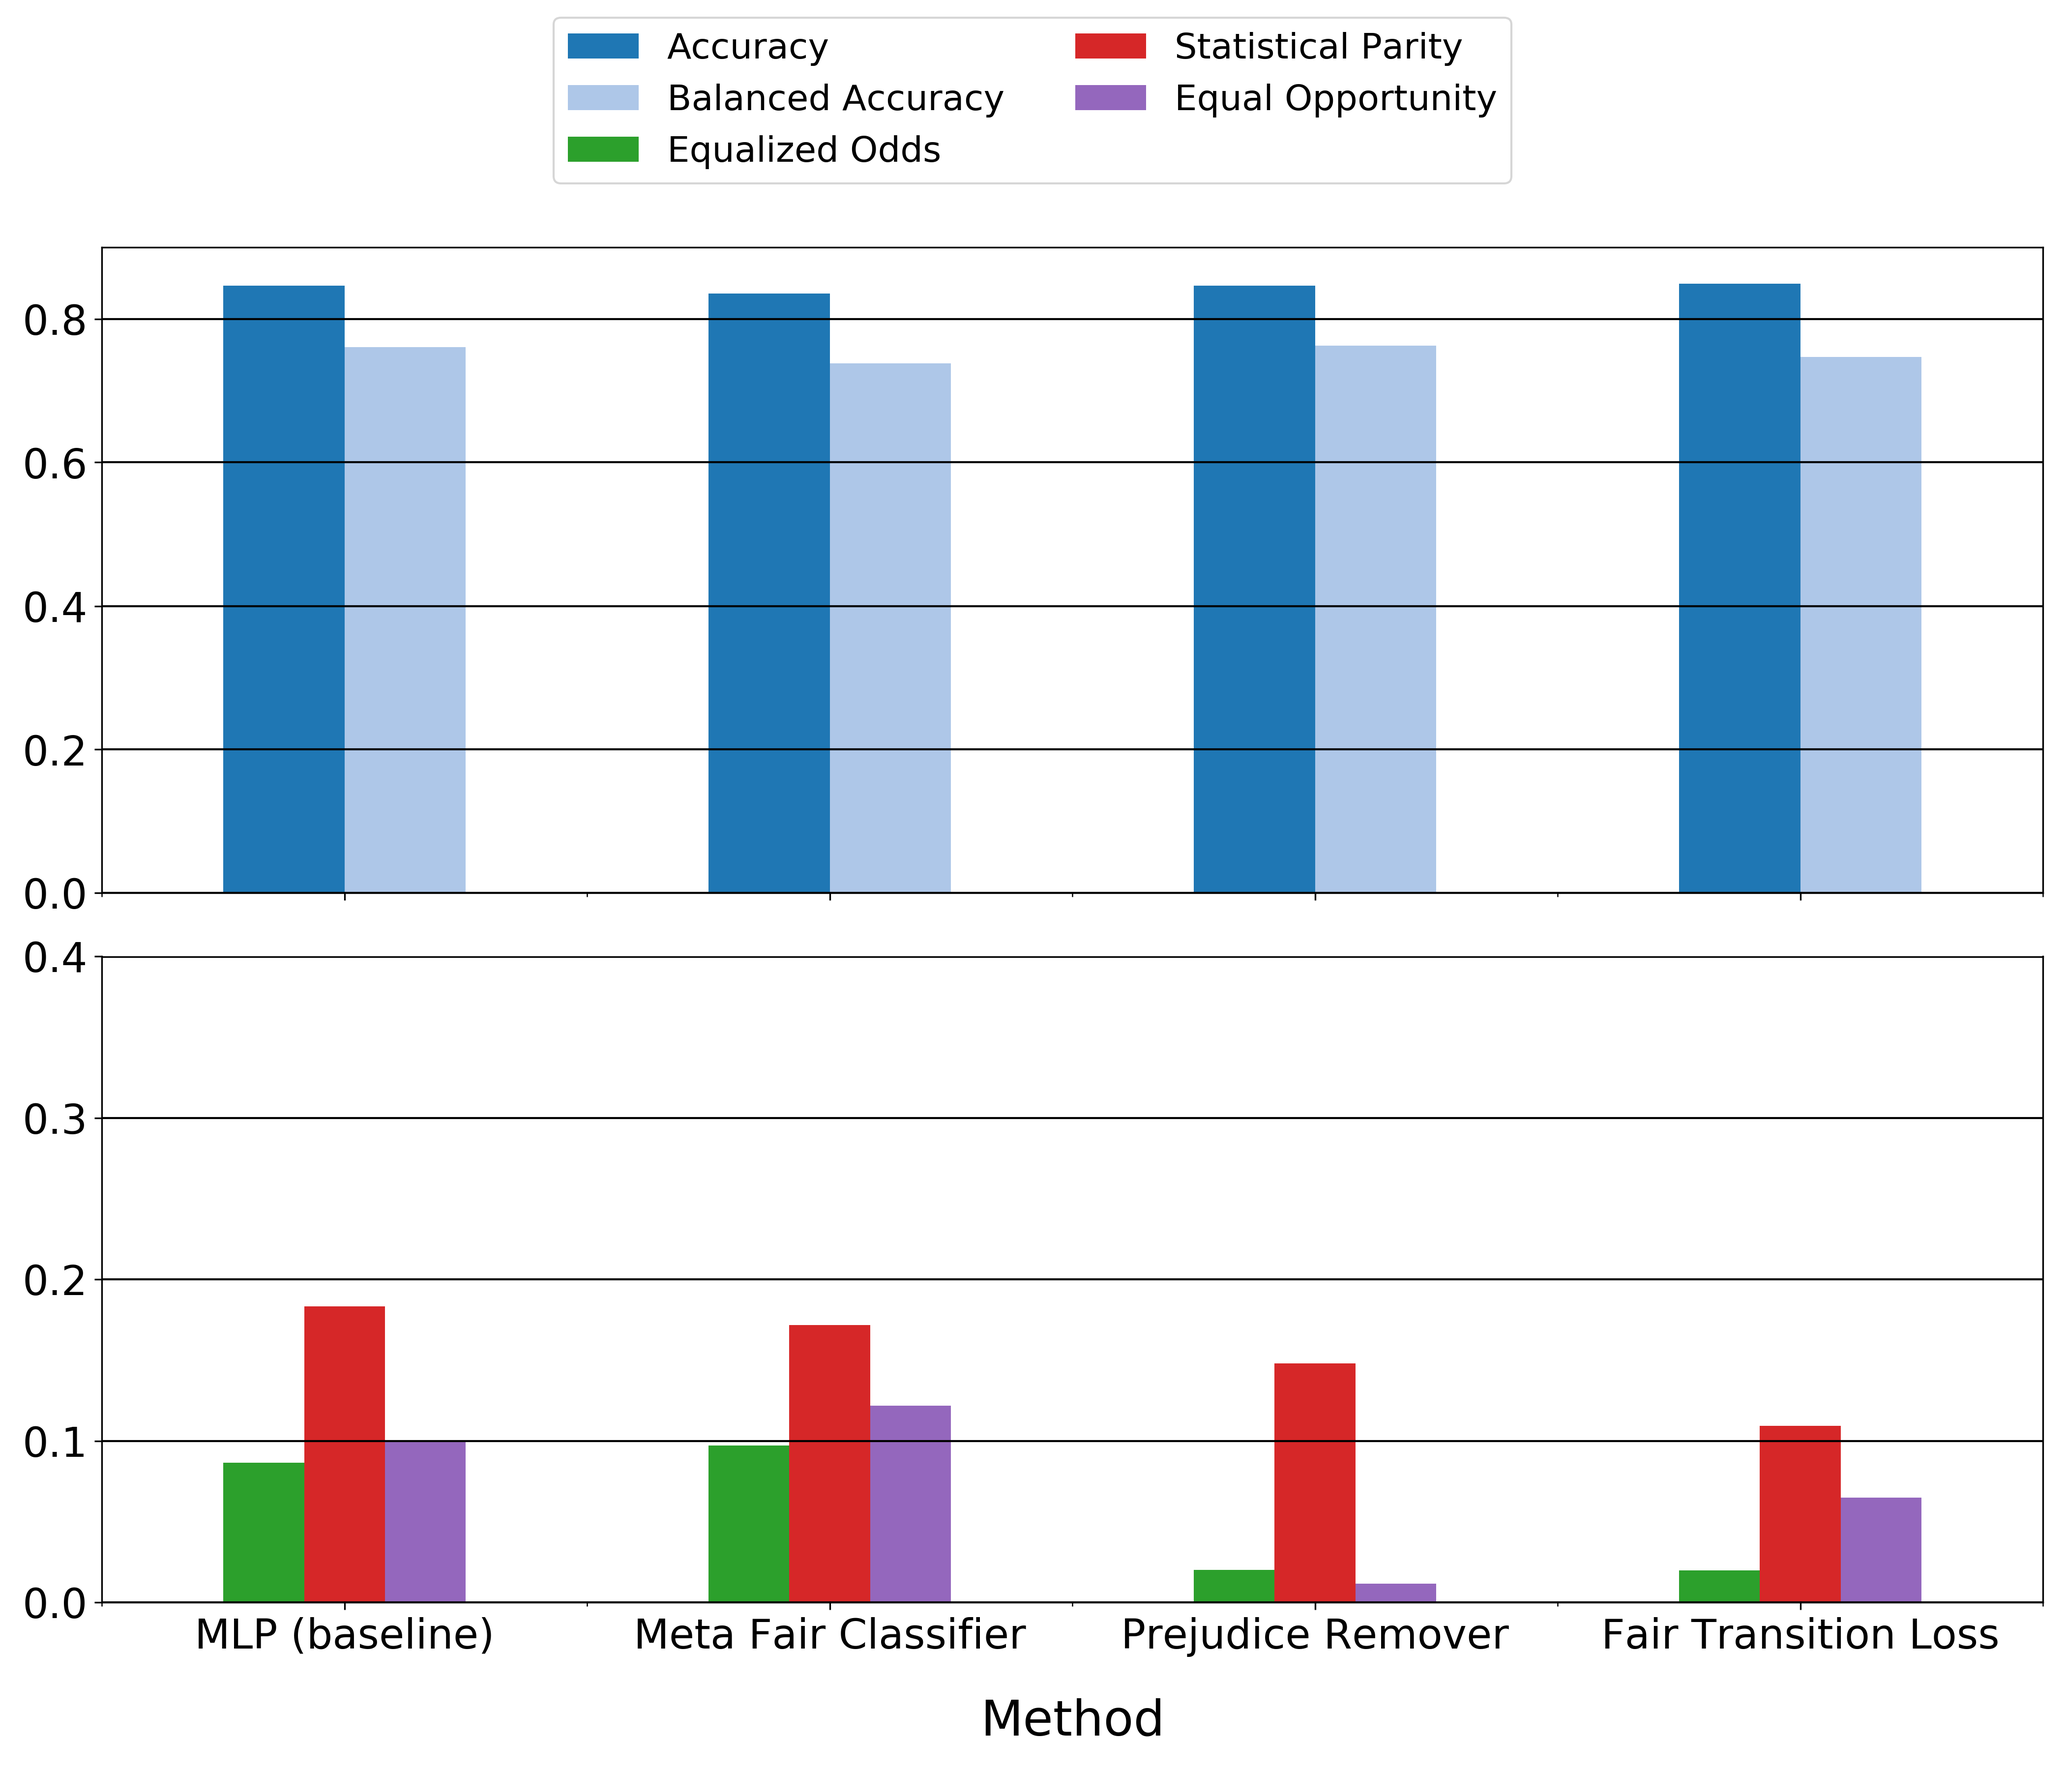
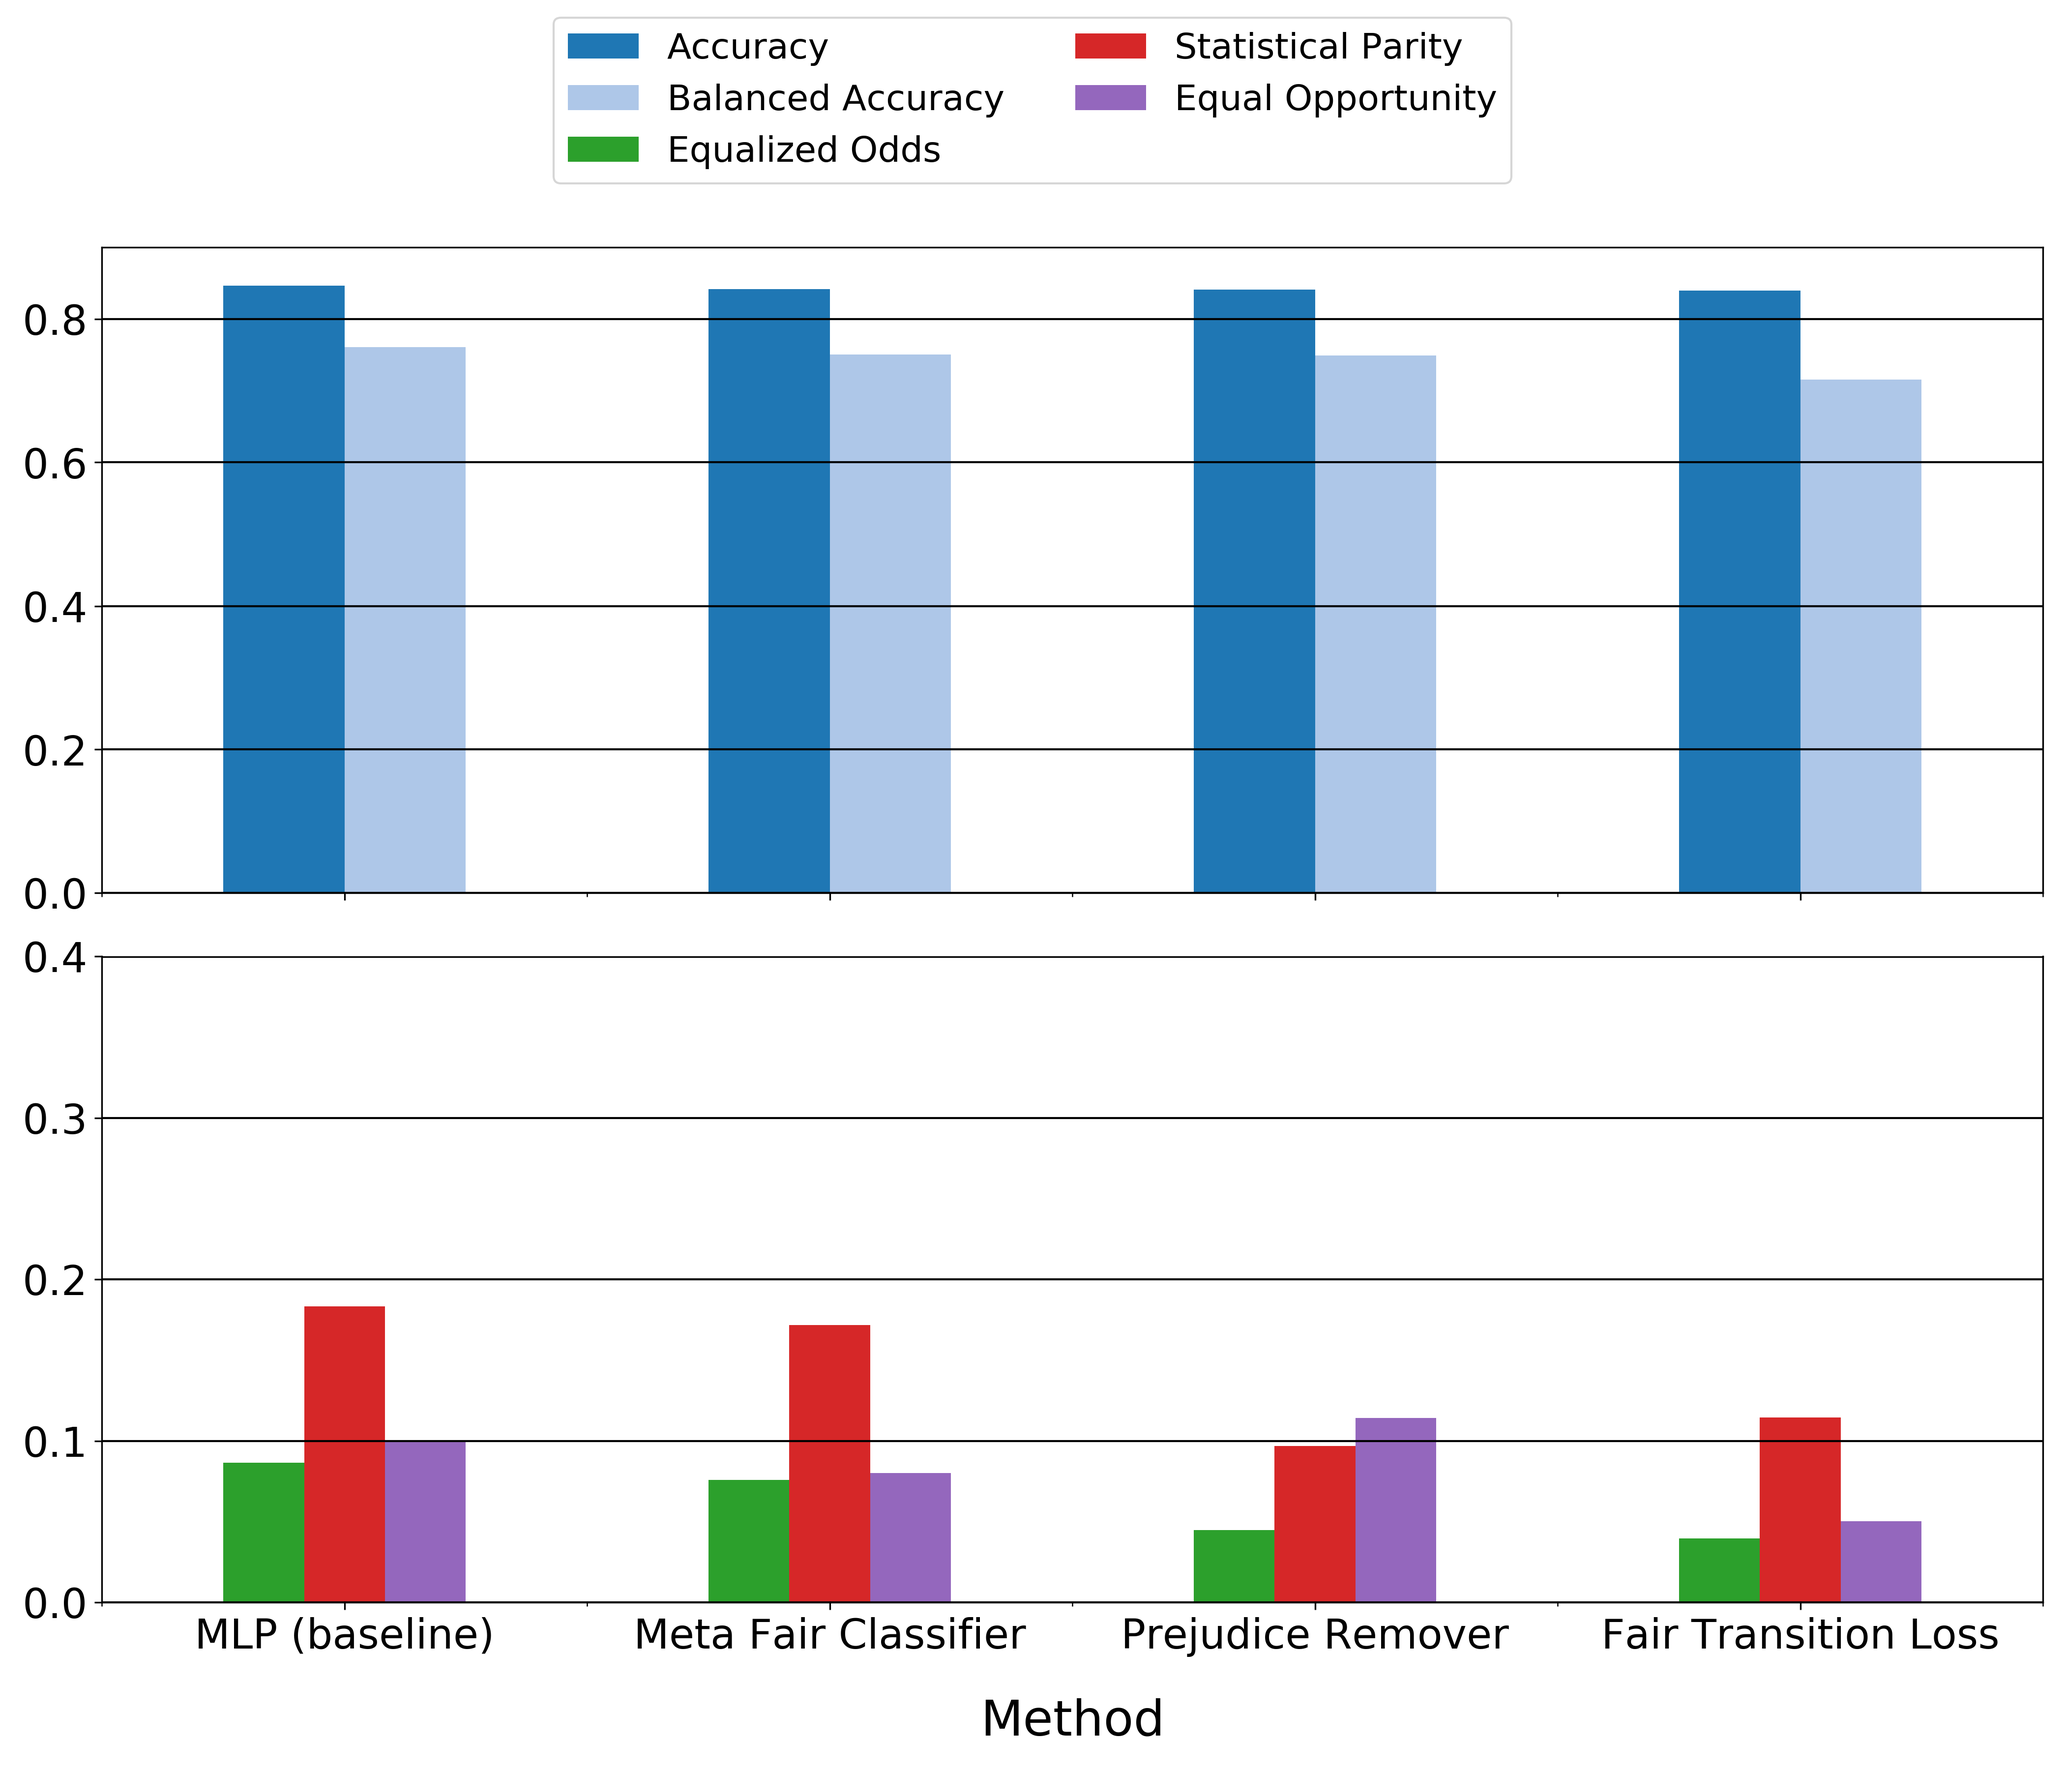
equal opportunity results

diff --git a/notebooks/2022-05-03/replot.py b/notebooks/2022-05-03/replot.py
@@ -56,4 +56,7 @@ plot_comparison(results, 'Income', 'Statistical Parity')
 results = pd.read_csv('odds_results.csv')
 plot_comparison(results, 'Income', 'Equalized Odds')
 
+results = pd.read_csv('opportunity_results.csv')
+plot_comparison(results, 'Income', 'Equalized Odds')
+
 
